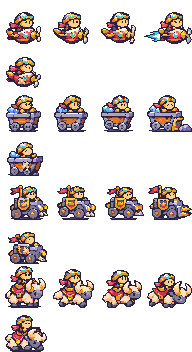
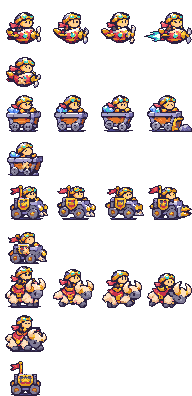
Props asks 2, ask 3: ride-wagon-empty, the rider painted out of the wagon's idle cell (DRAFT edit)
Why: machines.ts draws `ride-wagon-empty` for a standing wagon nobody is in; until now it fell back to the idle
cell, so an empty wagon showed the P04 sheet's baked goggled rider. No plate shows an empty wagon (on the Drive's
missing list), so this is an edit of the approved idle cell, not a cut (loops.ride_empty): the rider's head
cleared, the body's right half (under his arm) the left half mirrored. Appended to group `rides`; every earlier
ride cell unmoved and pixel-identical (compared).

Ran: make.py, selfcheck.py, the mock scene (docs/plan/step-8-shots/round3/props/loops-wagon-4x.png), npm run
build and npm run check. Not run: e2e (a new look; no look the game already drew changed). Not verified: an
empty wagon drawn in the real game (forcing a seat empty on the page's copy for a screenshot did not take).
Measure row: none (art). Undo: revert the commit.

Claude-Session: https://claude.ai/code/session_017WiGzHr5CCwAod6mkVF139

diff --git a/tools/art/props/loops.py b/tools/art/props/loops.py
@@ -69,6 +69,28 @@ def ride(which, state):
     return _strip([_frame(_cell(which, i)) for i in cells])
 
 
+
+def ride_empty(which):
+    """DRAFT (props-asks-2, ask 3): the machine with nobody aboard, an EDIT of an approved cell, not a cut. Every
+    P04 vehicle cell has the goggled rider baked in and no plate shows an empty one (on the Drive's missing list).
+    From the idle cell: everything above the body's top edge right of the flag pole is cleared (the rider's head),
+    and the body's right half, where the rider's arm and hand cover it, is the left half mirrored about the
+    crest's middle (x 25). Replace it with a cut the day an empty wagon is delivered."""
+    c = ride(which, 'idle')
+    out = c.copy()
+    top, mid2 = 22, 50
+    for y in range(c.height):
+        for x in range(c.width):
+            p = c.getpixel((x, y))
+            if y < top and x >= 23:
+                p = (0, 0, 0, 0)
+            elif y >= top and 2 * x > mid2:
+                xm = mid2 - x
+                p = c.getpixel((xm, y)) if 0 <= xm < c.width else (0, 0, 0, 0)
+            out.putpixel((x, y), p)
+    return out
+
+
 # ---- rare powers and pickups: P05 rare-powers-pickups ('powers'), painted on an opaque pale ground (key=)
 P05KEY = (247, 245, 243)
 POWER = ramps('gold', 'orange', 'red', 'blue', 'sky', 'purple', 'teal', 'metal', 'cloud', 'wood', 'night', 'pink',

diff --git a/tools/art/props/loopshots.py b/tools/art/props/loopshots.py
@@ -235,8 +235,23 @@ def camp():
     return out
 
 
+def wagon():
+    """props-asks-2, ask 3: the wagon idle (its baked rider), then empty, then empty with the grappler standing by
+    it, by day and by night"""
+    img, L = looks('rides')
+    hero = Image.open(os.path.join(ROOT, 'assets', 'sprites', 'heroes', 'grappler.png')).convert('RGBA').crop((0, 0, 48, 48))
+    scene = ground(90, sky=NIGHT, body=NBODY, lip=NLIP)
+    scene.alpha_composite(ground(180).crop((0, 92, 320, 180)), (0, 92))
+    for floor in (90, 176):
+        place(scene, frame(img, L['ride-wagon-idle']), 60, floor)
+        place(scene, frame(img, L['ride-wagon-empty']), 150, floor)
+        place(scene, frame(img, L['ride-wagon-empty']), 240, floor)
+        place(scene, hero, 280, floor)
+    return scene
+
+
 SCENES = {'weapons': weapons, 'rides': rides, 'powers': powers, 'treasure': treasure, 'hall': hall, 'asks': asks, 'heist': heist,
-          'cage': cage, 'undercroft': undercroft, 'camp': camp}
+          'cage': cage, 'undercroft': undercroft, 'camp': camp, 'wagon': wagon}
 
 if __name__ == '__main__':
     os.makedirs(OUT, exist_ok=True)

diff --git a/tools/art/props/make.py b/tools/art/props/make.py
@@ -131,6 +131,7 @@ def looks_sheets():
         s.newrow()
         s.add('ride-%s-wrecked' % which, lo.ride(which, 'wrecked'))
         s.newrow()
+    s.add('ride-wagon-empty', lo.ride_empty('wagon'))  # props-asks-2, ask 3: appended, every cell above unmoved
     out.append(('rides', 'props/rides.png', s))
     # ---- the core loops' powers and pickups (loops.py: P05 rare-powers-pickups)
     s = Sheet(216)

diff --git a/docs/mechanisms/asset-coverage.md b/docs/mechanisms/asset-coverage.md
@@ -197,7 +197,7 @@ Cuts live in tools/art/props/drive.py, round3.py and looks_parts.py.
 | `look:level-entry` | uses-approved | `P05/p05-secrets-doors-breakables-source.png` top row: arch (203,68)-(308,172), gem door (313,66)-(418,172), portal (528,68)-(632,172), mine (638,72)-(756,172). | - |
 | `look:level-sign` | uses-approved | `P07/pixel-art-platformer-tileset-atlas.png` two-arrow signpost (815,860)-(895,958). | - |
 | `look:level-pie` | approved-source-not-used | `P05/p05-d-ui-powers-exploration-preferred-sheet.png` rings: empty (138,463)-(205,532), quarter (208,463)-(276,532), three-quarters (276,463)-(344,532), full (342,463)-(410,532) (leave out the rays above). Half = empty + right half of full. | look3-props or loop-art-cutouts: point drive.level_pie() at P05 D (register it in srcimport.SHEETS) and delete the drawn redefinition. |
-| `look:ride` | uses-approved | `P04/chibi-vehicle-and-mount-sprite-sheet.png`, the plate's 5x4 cells (cols x 49-257, 299-542, 565-824, 856-1133, 1154-1404; rows plane y 36-234, cart 309-493, wagon 566-744, mount 816-1036): idle, moving x2, crash, wrecked (loops.ride(), group `rides`). | Every cell has the goggled rider baked in: an empty machine and an empty saddle are on no plate (MA, missing list). No game code draws a ride yet. |
+| `look:ride` | uses-approved | `P04/chibi-vehicle-and-mount-sprite-sheet.png`, the plate's 5x4 cells (cols x 49-257, 299-542, 565-824, 856-1133, 1154-1404; rows plane y 36-234, cart 309-493, wagon 566-744, mount 816-1036): idle, moving x2, crash, wrecked (loops.ride(), group `rides`). | Every cell has the goggled rider baked in: an empty machine and an empty saddle are on no plate (MA, missing list). `ride-wagon-empty` is a DRAFT edit of the idle cell (rider painted out: loops.ride_empty), drawn by src/client/draw/machines.ts for an empty seat; replace it when an empty wagon lands. |
 | `look:powers` | uses-approved | `P05/p05-rare-powers-pickups-source.png` (opaque pale ground, key (247,245,243)): row 1 fixtures y 8-134, row 2 orbs y 140-219, row 3 lost sequence y 223-326 (spark (146,225)-(192,290), stars (196,224)-(296,262), orb on its swoosh (353,223)-(452,326)), row 4 loose pieces y 338-426, row 5 pickup sequence and cloud poof y 426-512 (x boxes in loops.py). Group `powers`: pickup-*, item-*, power-fixture-*, fx-pickup-glow/-get, fx-power-lost, fx-poof. | The plate's row 5 runs off its bottom edge (the column and burst are cut at y 512). item-spring is mush at 16 px. No game code draws them yet. |
 | `look:treasure` | uses-approved | `P07/vibrant-platformer-interactables-sprite-sheet.png` row 1 chests (wood closed (195,95)-(330,215), open (370,70)-(505,215), empty (545,95)-(670,215); iron the same at x 800-1290), row 2 doors (ring door shut (35,240)-(212,415), open (212,240)-(390,415), portcullis down (410,240)-(595,415), raised (600,240)-(785,415)), key (30,980)-(130,1065), coins (1005,985)-(1165,1065), sack (780,960)-(875,1075), gem on post (610,795)-(745,935); `P05/p05-secrets-doors-breakables-source.png` padlocked door (102,68)-(200,172), barred door (424,68)-(524,172), vault cave (526,372)-(758,482); `P04/chibi-pixel-interactables-sprite-sheet.png` crystal (240,380)-(320,470); `P04/cantina-tavern-hub-tileset.png` coin heap (566,1040)-(643,1075). Group `treasure` (loops.py). | `hoard`/`hoard-taken` (32x16: the sack on the heap; a few coins) are ready for depot-hoard, whose placement still says `goods` (Step 16's to repoint). P05's own vault gold pile sits on the cave floor and does not cut clean. |
 | `look:hall` | uses-approved | `P04/hall-of-legends-tile-atlas.png` (opaque pale ground with drawn cell lines: key (247,247,247), grid=True), scale 0.2: plinths (38-272, 398-495), niches (610-1095, 395-497), plaques/shield/banners/drape (38-1320, 510-608), lantern/torch/braziers (40-610, 598-684), doors/window/portals (30-1125, 692-808), statues and keepsakes (35-1420, 885-1062), gold-edged frames (362-517, 114-192); per-piece boxes in loops.HALL. Group `hall`. | The wood doors lose their pale stone arch to the ground key (wood and gold rim only). Statues are thin at 0.2. hall-frame/-frame-star are about 14x16: small for a hall picture; scale up if the picture needs it. No game code draws them yet. |

diff --git a/tools/art/props/README.md b/tools/art/props/README.md
@@ -285,6 +285,20 @@ later room reuses them:
 - Scene: `loops-camp-4x.png` (columns 44-64 and 64-84, whole above, broken below). `preview.py` now stands a named
   breakable in the open, as the game does (`solidLook`), and skips placed things it has no look for.
 
+**Ask 3, `ride-wagon-empty` (Step 20 builder A, `src/client/draw/machines.ts` draws it for a standing wagon whose
+seat is empty).** `DRAFT:` **an edit of an approved cell, not a cut** (`loops.ride_empty`): every P04 vehicle cell has
+the goggled rider baked in and no plate shows an empty wagon, which is on the Drive's missing-assets list (an empty
+machine or saddle, `docs/mechanisms/asset-coverage.md`, `look:ride`). From `ride-wagon-idle`: the rider's head
+cleared above the body's top edge (right of the flag pole), and the body's right half, under the rider's arm and
+hand, is the left half mirrored about the crest's middle. Group `rides`, appended (every ride cell unmoved,
+compared). Scene: `loops-wagon-4x.png` (idle, empty, empty beside the grappler, night and day).
+- **Not verified in the game:** an empty wagon was not seen drawn. Emptying a wagon's seat on the page's own copy for
+  a screenshot did not change what was drawn (the drawing reads another copy of the world); the look's id is the
+  one `machines.ts` asks for. GV-01's `transport_wagon` is a different vehicle (a guard cage wagon), not a source.
+- **Flake seen during these gates:** `check step20-machine` failed 3 times in 9 runs ("b's page never heard the
+  barrier break"; "a's page was corrected"), passing on re-run each time with nothing of this lane in the
+  simulation; already logged in Step 5's notes (bbb9702).
+
 ## Deviations from the contract
 
 - `ui-use`'s `src` is the whole 48×24 picture (normal then pressed), with no `frames`: that is how
